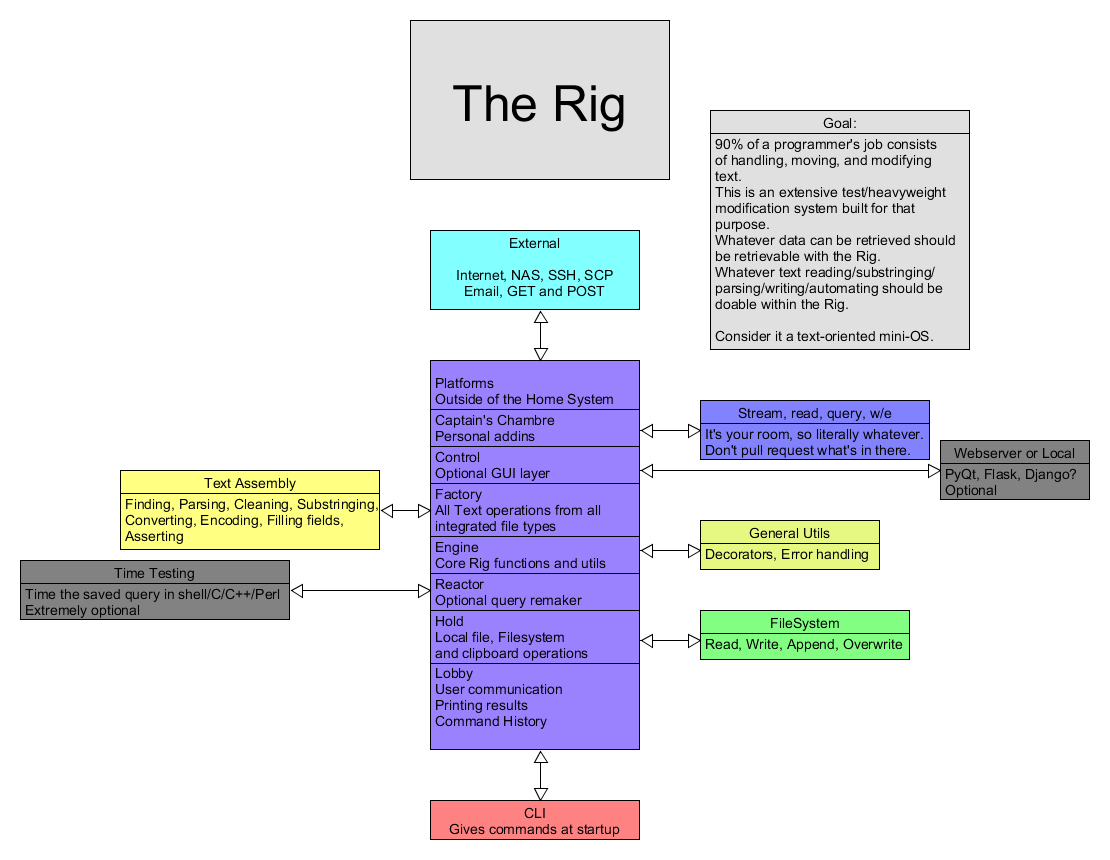
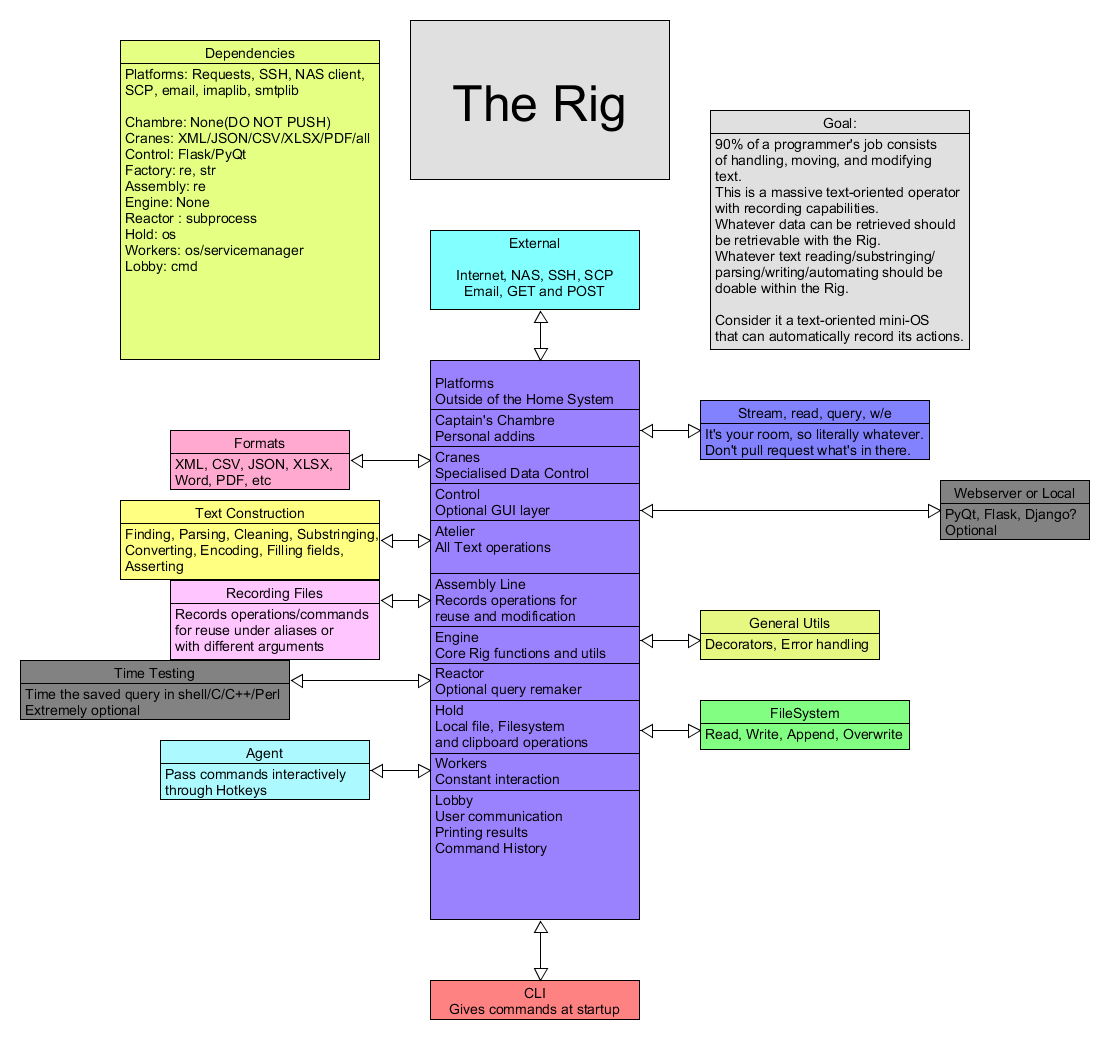
overhaul

diff --git a/Rig/Hold/filesystem_gate.py b/Rig/Hold/filesystem_gate.py
@@ -26,18 +26,20 @@ def is_file_in(folder, filename, dealbreaker=True):
 
 
 ###########################Searchers###########################
-def find(target_file, source_folder=swd, recursive=True, multiple=False):
-    'Finds the file/folder inside source_folder. If multiple == true, will return all files/folders matching the name.'
+def find(target_file, source_folder=None, recursive=True, multiple=False):
+    'Finds the file/folder inside source_folder. if multiple == true, will return all files/folders matching the name.'
     if source_folder == None:
         source_folder = swd
-    if recursive == True and multiple == False:
-        walk(source_folder)
-    elif recursive == False and multiple == True:
-        pass
-    elif recursive == True and multiple == True:
-        pass
-    elif recursive == False and multiple == False:
-        pass
+    if recursive and multiple == True:
+        return [join(folder, name) for folder, name in walk(source_folder)[1:] if name == target_file]
+    elif recursive == True and multiple == False:
+        for folder, name in walk(source_folder)[1:]:
+             if name == target_file:
+                return (join(folder,name))
+    else:
+        if path.exists(join(source_folder, target_file)):
+            return join(source_folder, target_file)
+    pass
 
 
 ###########################Readers###########################

diff --git a/Rig/__init__.py b/Rig/__init__.py
@@ -1,2 +1,2 @@
-__package__="therig"
-__all__=("Chambre","Control","Engine","Factory","Hold","Lobby","Platforms","Reactor")
+__package__="TheRig"
+__all__=("Assembly", "Atelier", "Chambre", "Control", "Cranes", "Engine", "Hold", "Lobby", "Platforms", "Reactor", "Workers")
